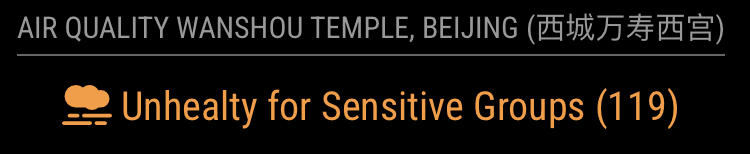
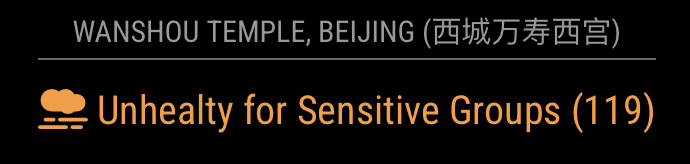
update preview

Changed region(s): [[0.0304, 0.5195, 0.9435, 0.8312], [0.0, 0.0779, 0.9739, 0.2857], [0.0, 0.3377, 0.9739, 0.3896]]

diff --git a/README.md b/README.md
@@ -11,8 +11,12 @@ A module for the [MagicMirror](https://github.com/MichMich/MagicMirror) to displ
 
 ## Preview
 
-![preview](.github/preview-good.png)
 ![preview](.github/preview-unhealthy.png)
+
+with header and location
+![preview](.github/preview-good.png)
+
+without any header
 ![preview](.github/preview-very-unhealthy.png)
 
 ## Usage
